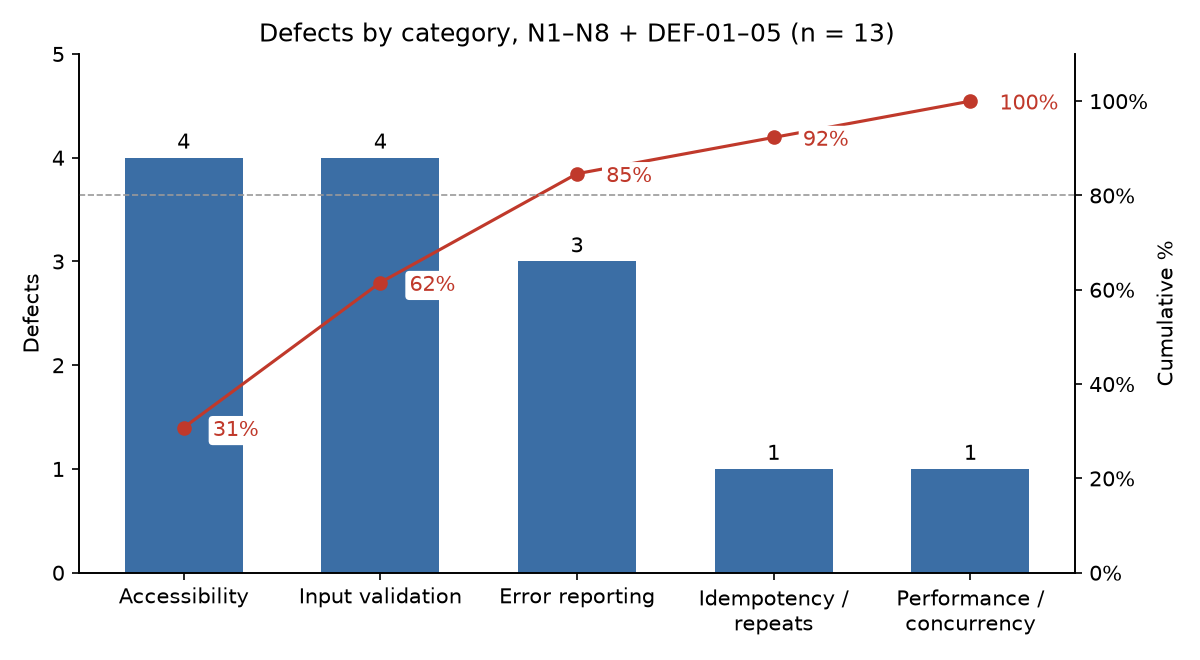
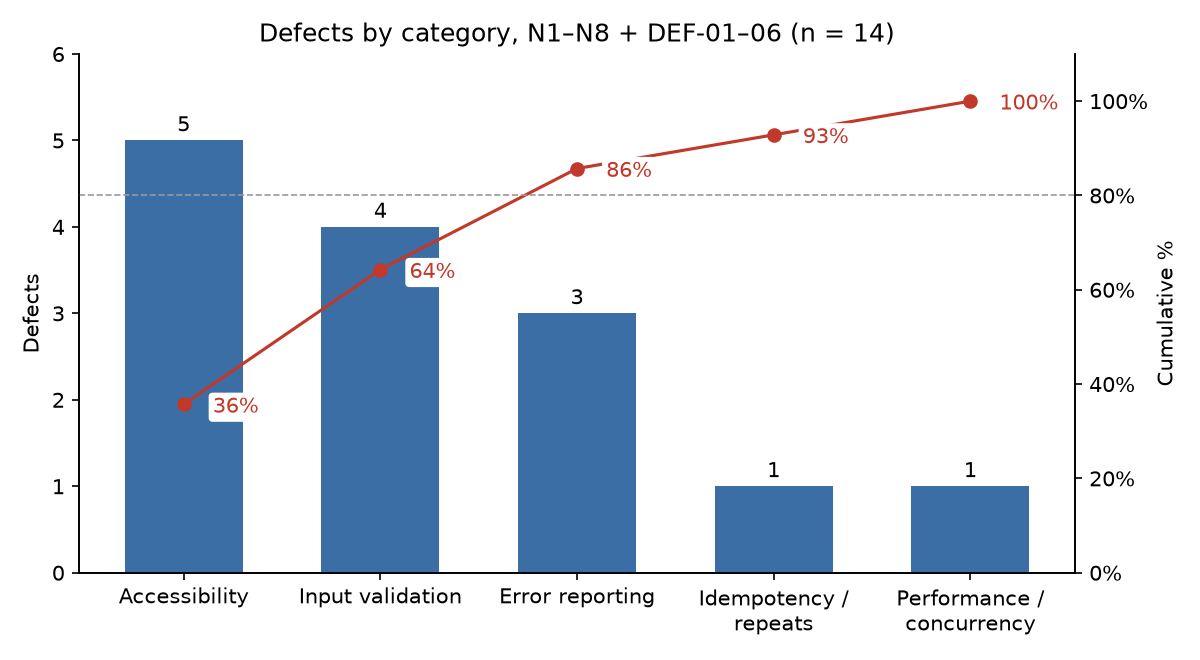
Triage defect candidates D1–D4, DEF-06, DEF-07; log DEF-06 as #19; update Pareto

diff --git a/reports/api/make_pareto.py b/reports/api/make_pareto.py
@@ -27,6 +27,7 @@ DEFECTS = {
     'DEF-03': 'Accessibility',
     'DEF-04': 'Performance / concurrency',
     'DEF-05': 'Accessibility',
+    'DEF-06': 'Accessibility',
 }
 
 
@@ -49,7 +50,7 @@ def main():
     ax.set_ylabel('Defects')
     ax.set_ylim(0, max(values) + 1)
     ax.yaxis.set_major_locator(MaxNLocator(integer=True))
-    ax.set_title(f'Defects by category, N1–N8 + DEF-01–05 (n = {total})')
+    ax.set_title(f'Defects by category, N1–N8 + DEF-01–06 (n = {total})')
     ax.spines[['top']].set_visible(False)
 
     ax2 = ax.twinx()

diff --git a/docs/defects/README.md b/docs/defects/README.md
@@ -31,27 +31,32 @@ Updated 28 Nov 2026.
 | DEF-03 | [#14](https://github.com/Malaikaa0/sales-and-inventory-management/issues/14) | Dashboard muted table text fails WCAG 2.1 AA contrast | Minor | P2 | **Fixed, closed** (`6052421`) | Fixed and verified (axe 0 violations, Lighthouse 100) | PR-05 | – (accessibility) | M3 axe/Lighthouse |
 | DEF-04 | [#15](https://github.com/Malaikaa0/sales-and-inventory-management/issues/15) | Concurrent sale writes hit SQLite lock contention under 10-VU load | Minor | P3 | Accepted | Accepted for SQLite (dev/test); production uses PostgreSQL | PR-06 | – (performance) | M3 k6 |
 | DEF-05 | [#16](https://github.com/Malaikaa0/sales-and-inventory-management/issues/16) | Login page has no `<main>` landmark | Minor | P3 | Open | Fix: add `<main>`; outside the fixed screen | PR-05 | – (accessibility) | M3 axe |
+| DEF-06 | [#19](https://github.com/Malaikaa0/sales-and-inventory-management/issues/19) | Point of sale placeholders and secure note fail WCAG 2.1 AA contrast (3.16:1, 3.28:1) | Minor | P2 | Open | Fix: darken to ≥ 4.5:1, rerun axe/Lighthouse on the till | PR-05 | WCAG 2.1 AA 1.4.3 (team target) | M3 axe |
 
 ## Summary
 
 | Measure | Value |
 | --- | --- |
-| Logged defects | 13 (8 N + 5 DEF) |
-| By severity | Major 3 (N2, N4, N7), Minor 10, Critical 0 |
-| By status | Open 9, Fixed and closed 3 (DEF-01–03), Accepted 1 (DEF-04) |
+| Logged defects | 14 (8 N + 6 DEF) |
+| By severity | Major 3 (N2, N4, N7), Minor 11, Critical 0 |
+| By status | Open 10, Fixed and closed 3 (DEF-01–03), Accepted 1 (DEF-04) |
 | Open with a fix in review | 1 (N1 in PR #11) |
 | Reopened | 0 |
 
-## Candidates not yet logged (need triage)
+## Triage of the other candidates (28 Nov 2026)
 
-| ID | Source | Finding | Proposed decision |
-| --- | --- | --- | --- |
-| DEF-06 | [defects.md](../defects.md) (M3) | `/transactions/new-sale/` Select2 placeholder and `.pos-secure-note` contrast below 4.5:1 | Log as Minor/P3 (PR-05) |
-| DEF-07 | [defects.md](../defects.md) (M3) | `/transactions/sales/` table has an empty action `<th>` | Log as Minor/P3 (PR-05) |
-| D1 | [test-plan.md](../test-plan.md) §11 (M1) | Wrong message above 100,000 | **Duplicate of N1 (#1)**; fixed in PR #11 |
-| D2 | test-plan §11 (M1) | Two lines of 100,000 for the same item accepted (200,000 units) | Decide whether the limit is per line (as coded and as scope BR1 says) or per item. If per line, not a defect |
-| D3 | test-plan §11 (M1) | Sales search for a phone number made only of digits finds no sale | Log as Minor/P3 (outside the two workflows' requirements) |
-| D4 | test-plan §11 (M1) | Quantity `2.0` rejected | Not a defect under A5 and the spec: integer fields reject all floats (`_int`), as agreed. Close |
+Checked against the evidence in the repository. A candidate becomes an Issue only if it can be reproduced and breaks a requirement (scope.md FR/BR, an agreed assumption, or the team's WCAG 2.1 AA target in PR-05).
+
+| ID | Source | Finding | Decision | Reason |
+| --- | --- | --- | --- | --- |
+| D1 | [test-plan.md](../test-plan.md) §11 (M1) | Wrong message above 100,000 | **Duplicate of N1 ([#1](https://github.com/Malaikaa0/sales-and-inventory-management/issues/1))**, no new Issue | Same input, same message. Noted on #1; PR #11 "Fix D1" fixes #1 |
+| D2 | test-plan §11 (M1) | Two lines of 100,000 for the same item accepted (200,000 units, stock 300,000) | **Rejected: not a defect** | scope.md BR1 sets the limit **per line** ("Each line quantity is 1 to 100,000"). The merged total is still checked against stock (`services.py:63,103`; API test `test_merged_duplicate_lines_exceeding_stock_rejected`). If the group wants a per-item limit, BR1 must change first |
+| D3 | test-plan §11 (M1) | Sales list search for a phone made only of digits (`0712345678`, `345`) finds no sale | **Not filed: outside the requirements** | Reproducible from the code: `transactions/views.py:129-131` treats any all-digit search as a receipt number and drops the phone search. But the sales list search is not part of FR1–FR10/BR1–BR4 or the two workflows. Recorded as an out-of-scope observation for upstream |
+| D4 | test-plan §11 (M1) | Quantity `2.0` rejected | **Rejected: not a defect** | The agreed rule (spec `x-accepts-numeric-strings`, A5 discussion) is that integer fields reject every JSON float, because `_int` does `int(str(2.0))`. The current behaviour matches it. `test_whole_number_float_is_rejected_current_behaviour` stays as is |
+| DEF-06 | [defects.md](../defects.md) (M3) | Till placeholders and secure note below 4.5:1 contrast | **Filed: [#19](https://github.com/Malaikaa0/sales-and-inventory-management/issues/19)** | axe `color-contrast` (serious) on 3 nodes in `axe-before.json` and `axe-after.json` (`/transactions/new-sale/`). Breaks WCAG 2.1 AA 1.4.3 on the key screen of the Sale workflow |
+| DEF-07 | [defects.md](../defects.md) (M3) | `/transactions/sales/` has an empty action `<th>` | **Not filed: best practice, not a requirement** | Reproducible (`axe-after.json`, rule `empty-table-header`, 1 node, impact minor). It is an axe best-practice rule, not a WCAG A/AA success criterion, and the sales list is not a key use-case screen. Kept as an improvement note |
+
+Note: DEF-05 (`landmark-one-main`) is also an axe best-practice rule. It was filed before this triage rule was set, and stays open as P3.
 
 ## Related
 

diff --git a/docs/defects/pareto.md b/docs/defects/pareto.md
@@ -1,11 +1,11 @@
 # Pareto analysis — defects by category
 
-The chart covers all 13 logged defects in the [master defect log](README.md):
+The chart covers all 14 logged defects in the [master defect log](README.md):
 
 - N1–N8 were found by Member 2's API and E2E tests.
-- DEF-01–DEF-05 were found by Member 1 (SonarQube) and Member 3 (axe-core, Lighthouse, k6).
+- DEF-01–DEF-06 were found by Member 1 (SonarQube) and Member 3 (axe-core, Lighthouse, k6).
 
-The chart is [`reports/api/pareto.png`](../../reports/api/pareto.png). To regenerate it, run `python reports/api/make_pareto.py`; it needs matplotlib 3.11.2 (`tools/generator/requirements.txt`). Candidates not yet logged (DEF-06, DEF-07, D2–D4) are not counted.
+The chart is [`reports/api/pareto.png`](../../reports/api/pareto.png). To regenerate it, run `python reports/api/make_pareto.py`; it needs matplotlib 3.11.2 (`tools/generator/requirements.txt`). Candidates triaged as not filed (D1 duplicate, D2, D3, D4, DEF-07) are not counted; see the [triage table](README.md#triage-of-the-other-candidates-28-nov-2026).
 
 ![Pareto chart of defects by category](../../reports/api/pareto.png)
 
@@ -17,6 +17,7 @@ The chart is [`reports/api/pareto.png`](../../reports/api/pareto.png). To regene
 | DEF-02 | Accessibility | Minor / P3 | Fixed | Table without header cells |
 | DEF-03 | Accessibility | Minor / P2 | Fixed | Text contrast below WCAG AA |
 | DEF-05 | Accessibility | Minor / P3 | Open | No `<main>` landmark on the login page |
+| DEF-06 | Accessibility | Minor / P2 | Open | Till placeholders and note below 4.5:1 contrast |
 | N2 | Input validation | Major / P2 | Open | No upper bound on purchase quantity |
 | N7 | Input validation | Major / P2 | Open | Out-of-range tax silently clamped by the till instead of rejected |
 | N5 | Input validation | Minor / P3 | Open | `false` accepted as 0 (wrong type not rejected) |
@@ -29,21 +30,19 @@ The chart is [`reports/api/pareto.png`](../../reports/api/pareto.png). To regene
 
 ## Counts, sorted
 
-Ties are listed alphabetically.
-
 | Category | Defects | % | Cumulative % |
 | --- | --- | --- | --- |
-| Accessibility | 4 | 30.8 | 30.8 |
-| Input validation | 4 | 30.8 | 61.5 |
-| Error reporting | 3 | 23.1 | 84.6 |
-| Idempotency / repeats | 1 | 7.7 | 92.3 |
-| Performance / concurrency | 1 | 7.7 | 100.0 |
-| **Total** | **13** | **100** | |
+| Accessibility | 5 | 35.7 | 35.7 |
+| Input validation | 4 | 28.6 | 64.3 |
+| Error reporting | 3 | 21.4 | 85.7 |
+| Idempotency / repeats | 1 | 7.1 | 92.9 |
+| Performance / concurrency | 1 | 7.1 | 100.0 |
+| **Total** | **14** | **100** | |
 
 ## Reading
 
-- **The vital few:** accessibility, input validation and error reporting together hold 84.6% of the defects, past the 80% line.
-- **Accessibility** is mostly done: 3 of its 4 defects are fixed and verified on the dashboard. DEF-05 remains, along with the unlogged DEF-06 and DEF-07 on other screens. Running Lighthouse and axe on every key screen (risk PR-05) is the next step.
+- **The vital few:** accessibility, input validation and error reporting together hold 85.7% of the defects, past the 80% line.
+- **Accessibility** is mostly done: 3 of its 5 defects are fixed and verified on the dashboard. DEF-05 (login) and DEF-06 (the till, P2) remain open; DEF-07 was triaged as a best-practice note. Running Lighthouse and axe on every key screen (risk PR-05) is the next step.
 - **Input validation** holds 2 of the 3 Major defects (N2, N7) and is still all open, so it is the category with the most risk left.
   - The shared rule is: every numeric input has a type check, a minimum and a maximum, on both the server and the till.
   - The till must show an error, not change the value silently.
